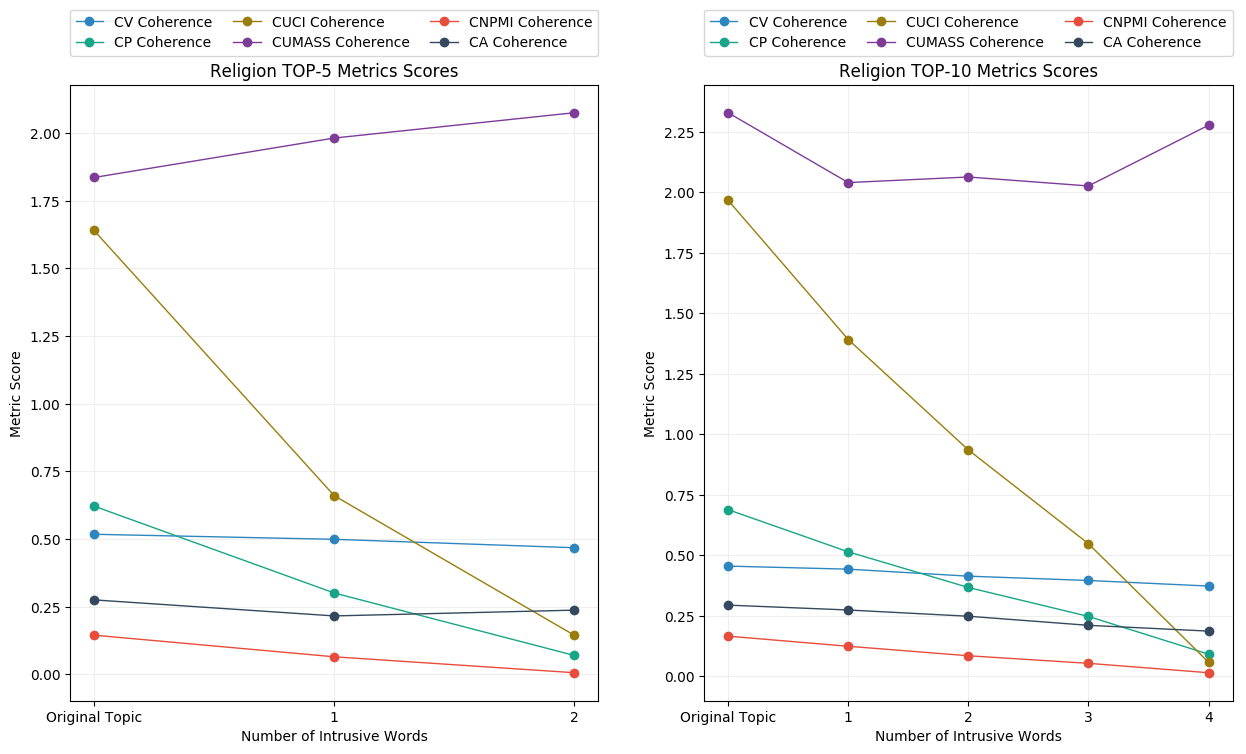
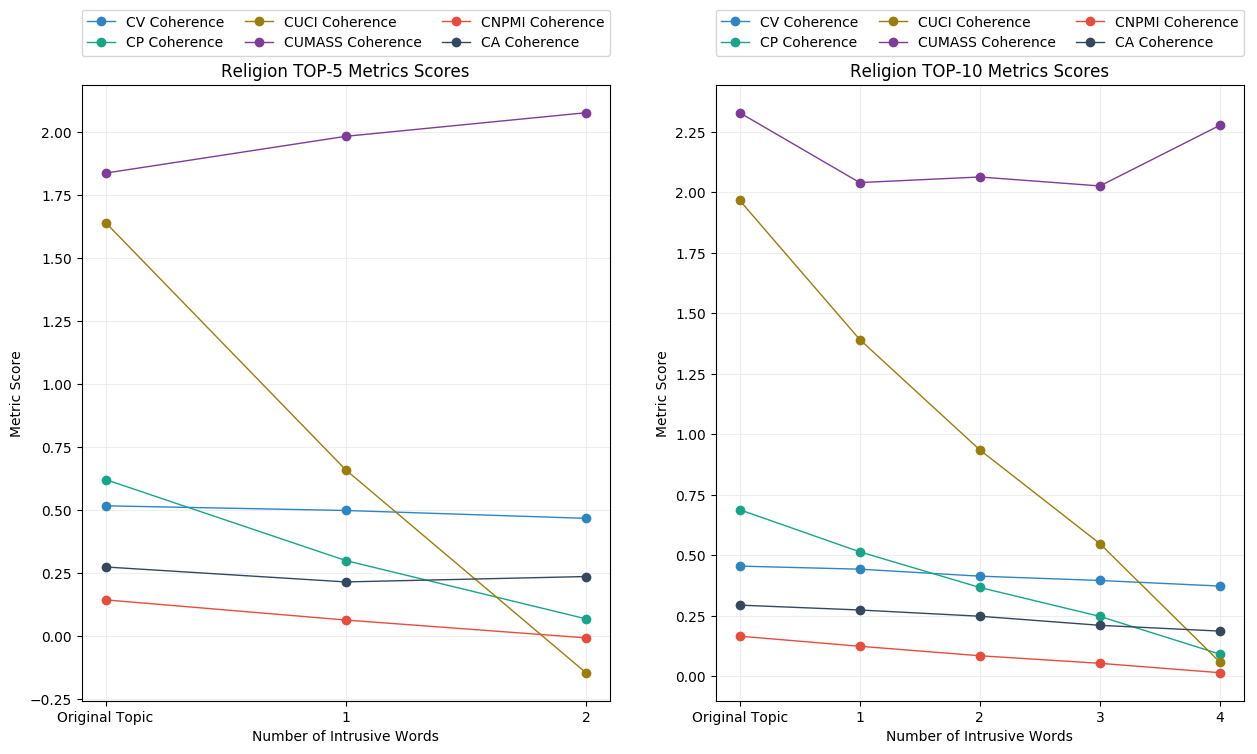
Using the absolute value for umass.

diff --git a/graphics/plot_graphic.py b/graphics/plot_graphic.py
@@ -20,7 +20,10 @@ def plot_graphic(top5, top10, topic):
     plt.xticks(range(0, 3), ['Original Topic', '1', '2'])
     plt.yticks(np.arange(-5,5, 0.25))
     for metric in range(0,6):
-        plot1.plot(range(0,3), abs(top5[:,[metric]]), 'o-', color=COLORS[metric], linewidth = 1, label=METRICS[metric]+' Coherence')
+        if metric == 3:
+            plot1.plot(range(0,3), abs(top5[:,[metric]]), 'o-', color=COLORS[metric], linewidth = 1, label=METRICS[metric]+' Coherence')
+        else:
+            plot1.plot(range(0,3), top5[:,[metric]], 'o-', color=COLORS[metric], linewidth = 1, label=METRICS[metric]+' Coherence')
     plt.legend(bbox_to_anchor=(0., 1.02, 1., .102), loc=0, ncol=3, mode="expand", borderaxespad=0.)
 
     ## Figure 2 will plot the top-10 metrics scores:
@@ -32,7 +35,11 @@ def plot_graphic(top5, top10, topic):
     plt.xticks(range(0, 5), ['Original Topic', '1', '2', '3', '4'])
     plt.yticks(np.arange(-5,5, 0.25))
     for metric in range(0,6):
-        plot2.plot(range(0,5), abs(top10[:,[metric]]), 'o-', color=COLORS[metric], linewidth = 1, label=METRICS[metric]+' Coherence')
+        if metric == 3:
+            plot2.plot(range(0,5), abs(top10[:,[metric]]), 'o-', color=COLORS[metric], linewidth = 1, label=METRICS[metric]+' Coherence')
+        else:
+            plot2.plot(range(0,5), top10[:,[metric]], 'o-', color=COLORS[metric], linewidth = 1, label=METRICS[metric]+' Coherence')
+
     plt.legend(bbox_to_anchor=(0., 1.02, 1., .102), loc=0, ncol=3, mode="expand", borderaxespad=0.)
 
     ## Saves the graphics from Figure 1 into the plots folder:
